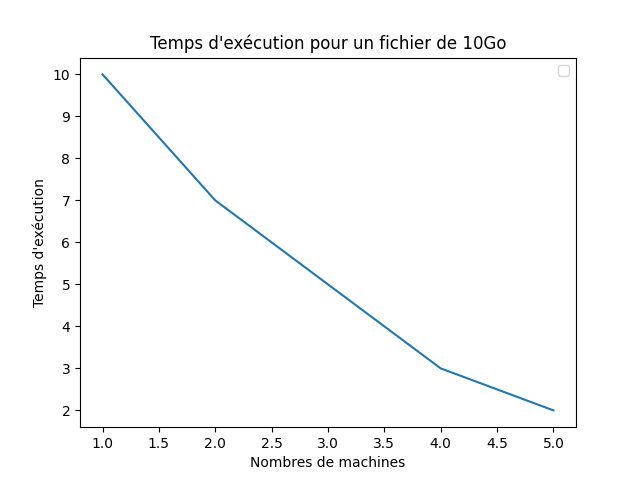
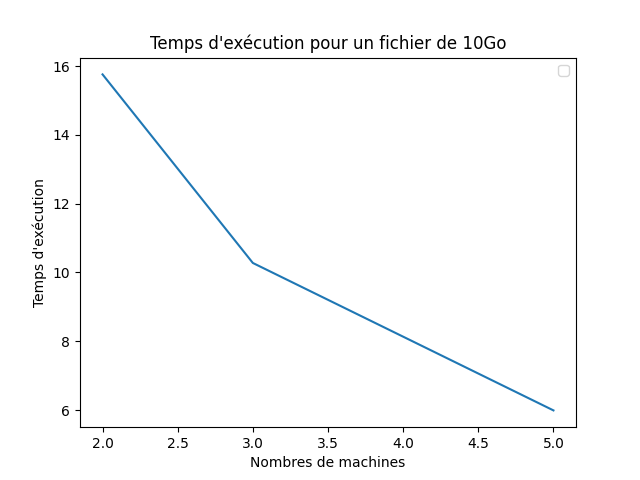
Last value

diff --git a/doc/graphiques/simultane.py b/doc/graphiques/simultane.py
@@ -3,7 +3,7 @@ import numpy as np
 
 # Données
 nbMachine = [2, 3, 5]
-times = [7, 10.277, 5.99]
+times = [15.760, 10.277, 5.99]
 
 times2 = [5.537, 9.18, 13.270, 17.118]
 tailleFichier = [2.7, 5.5, 8, 11]
